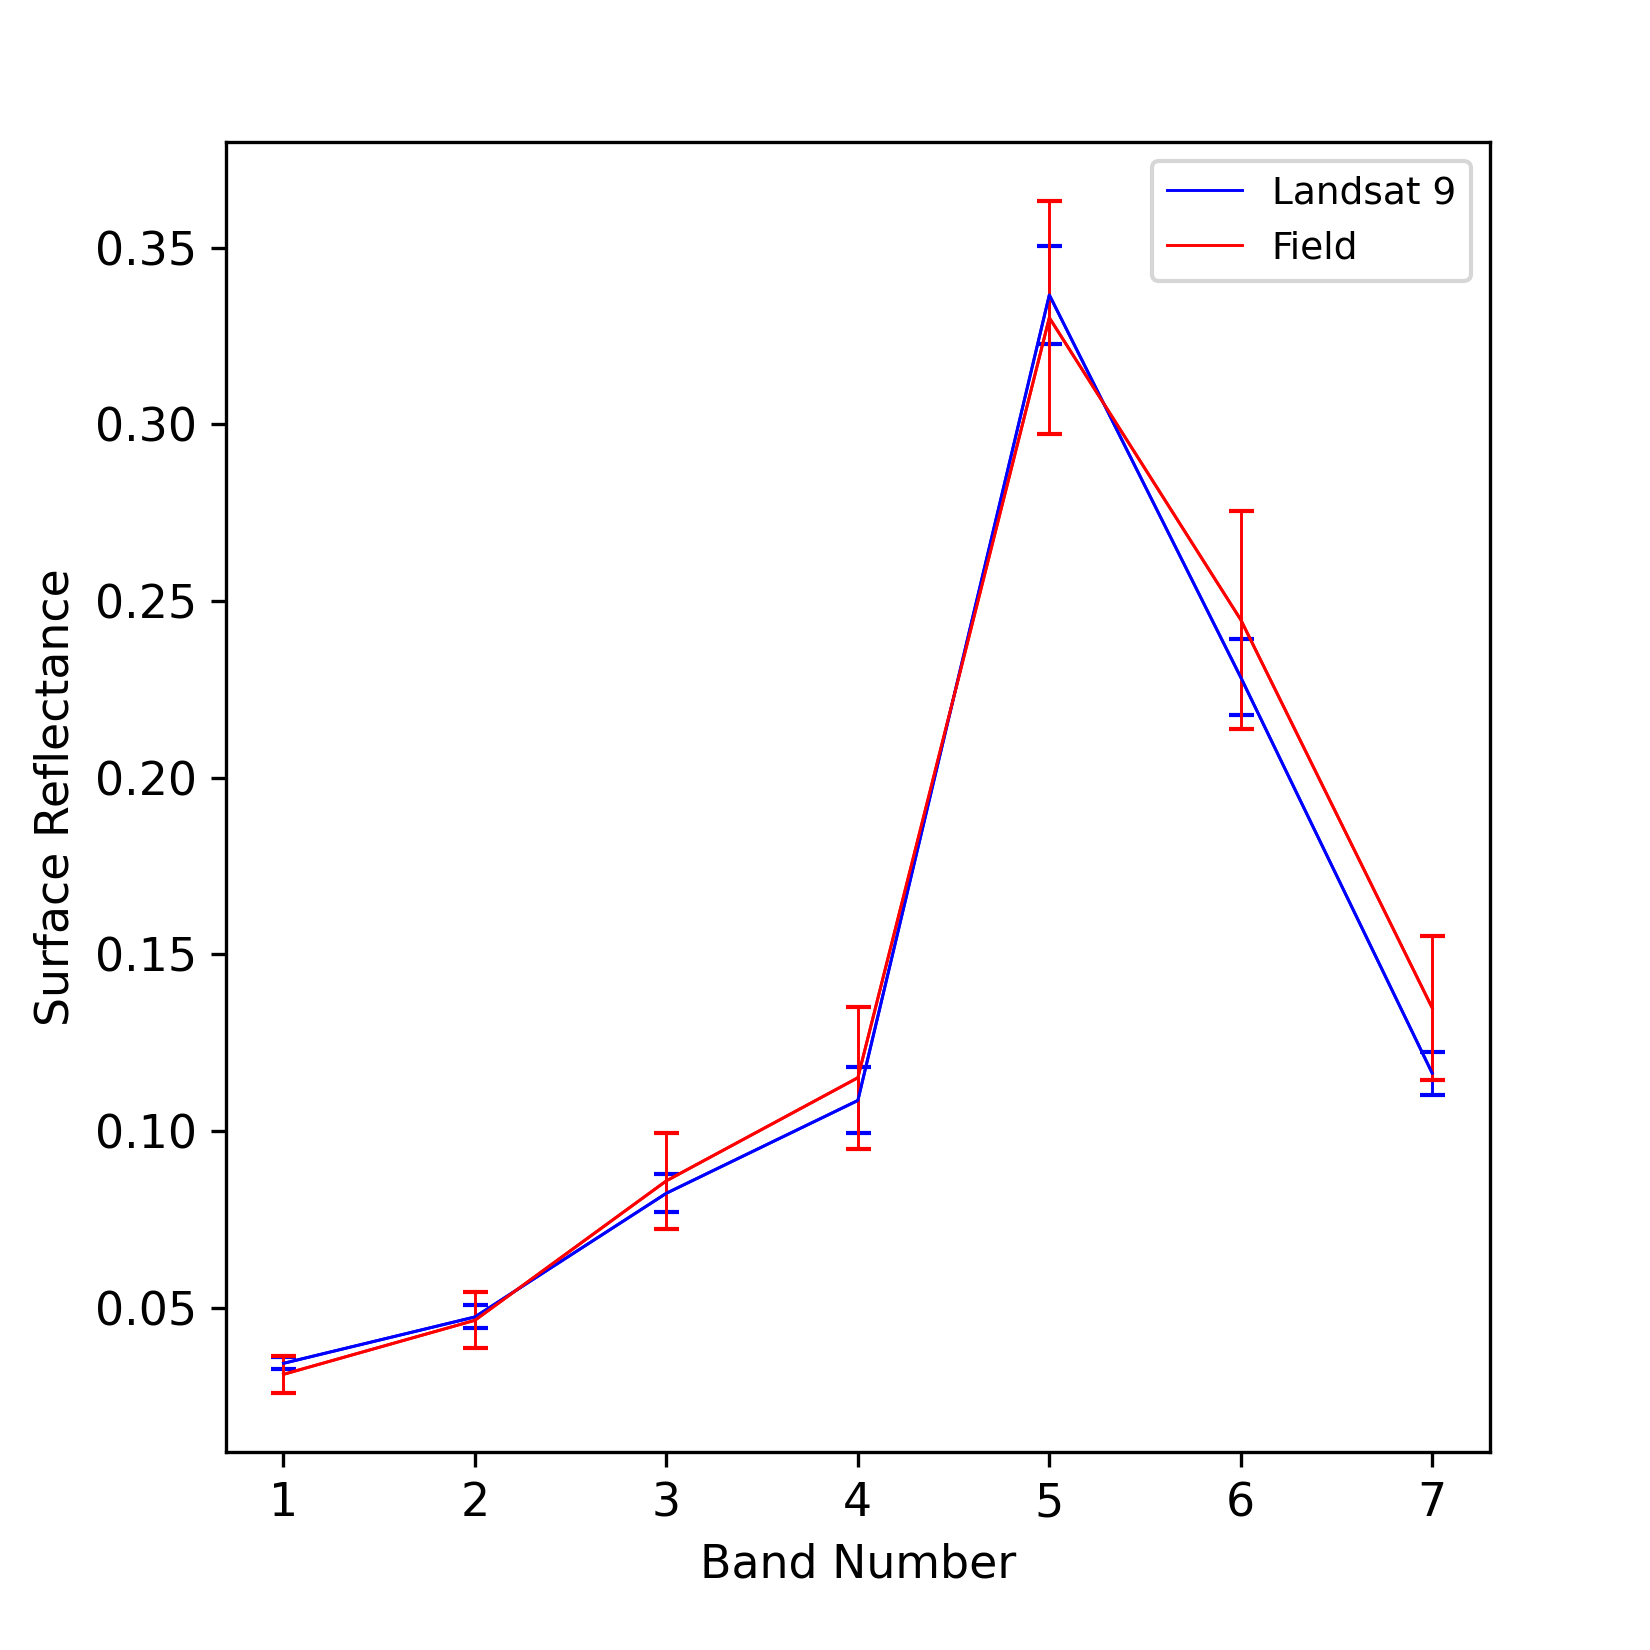
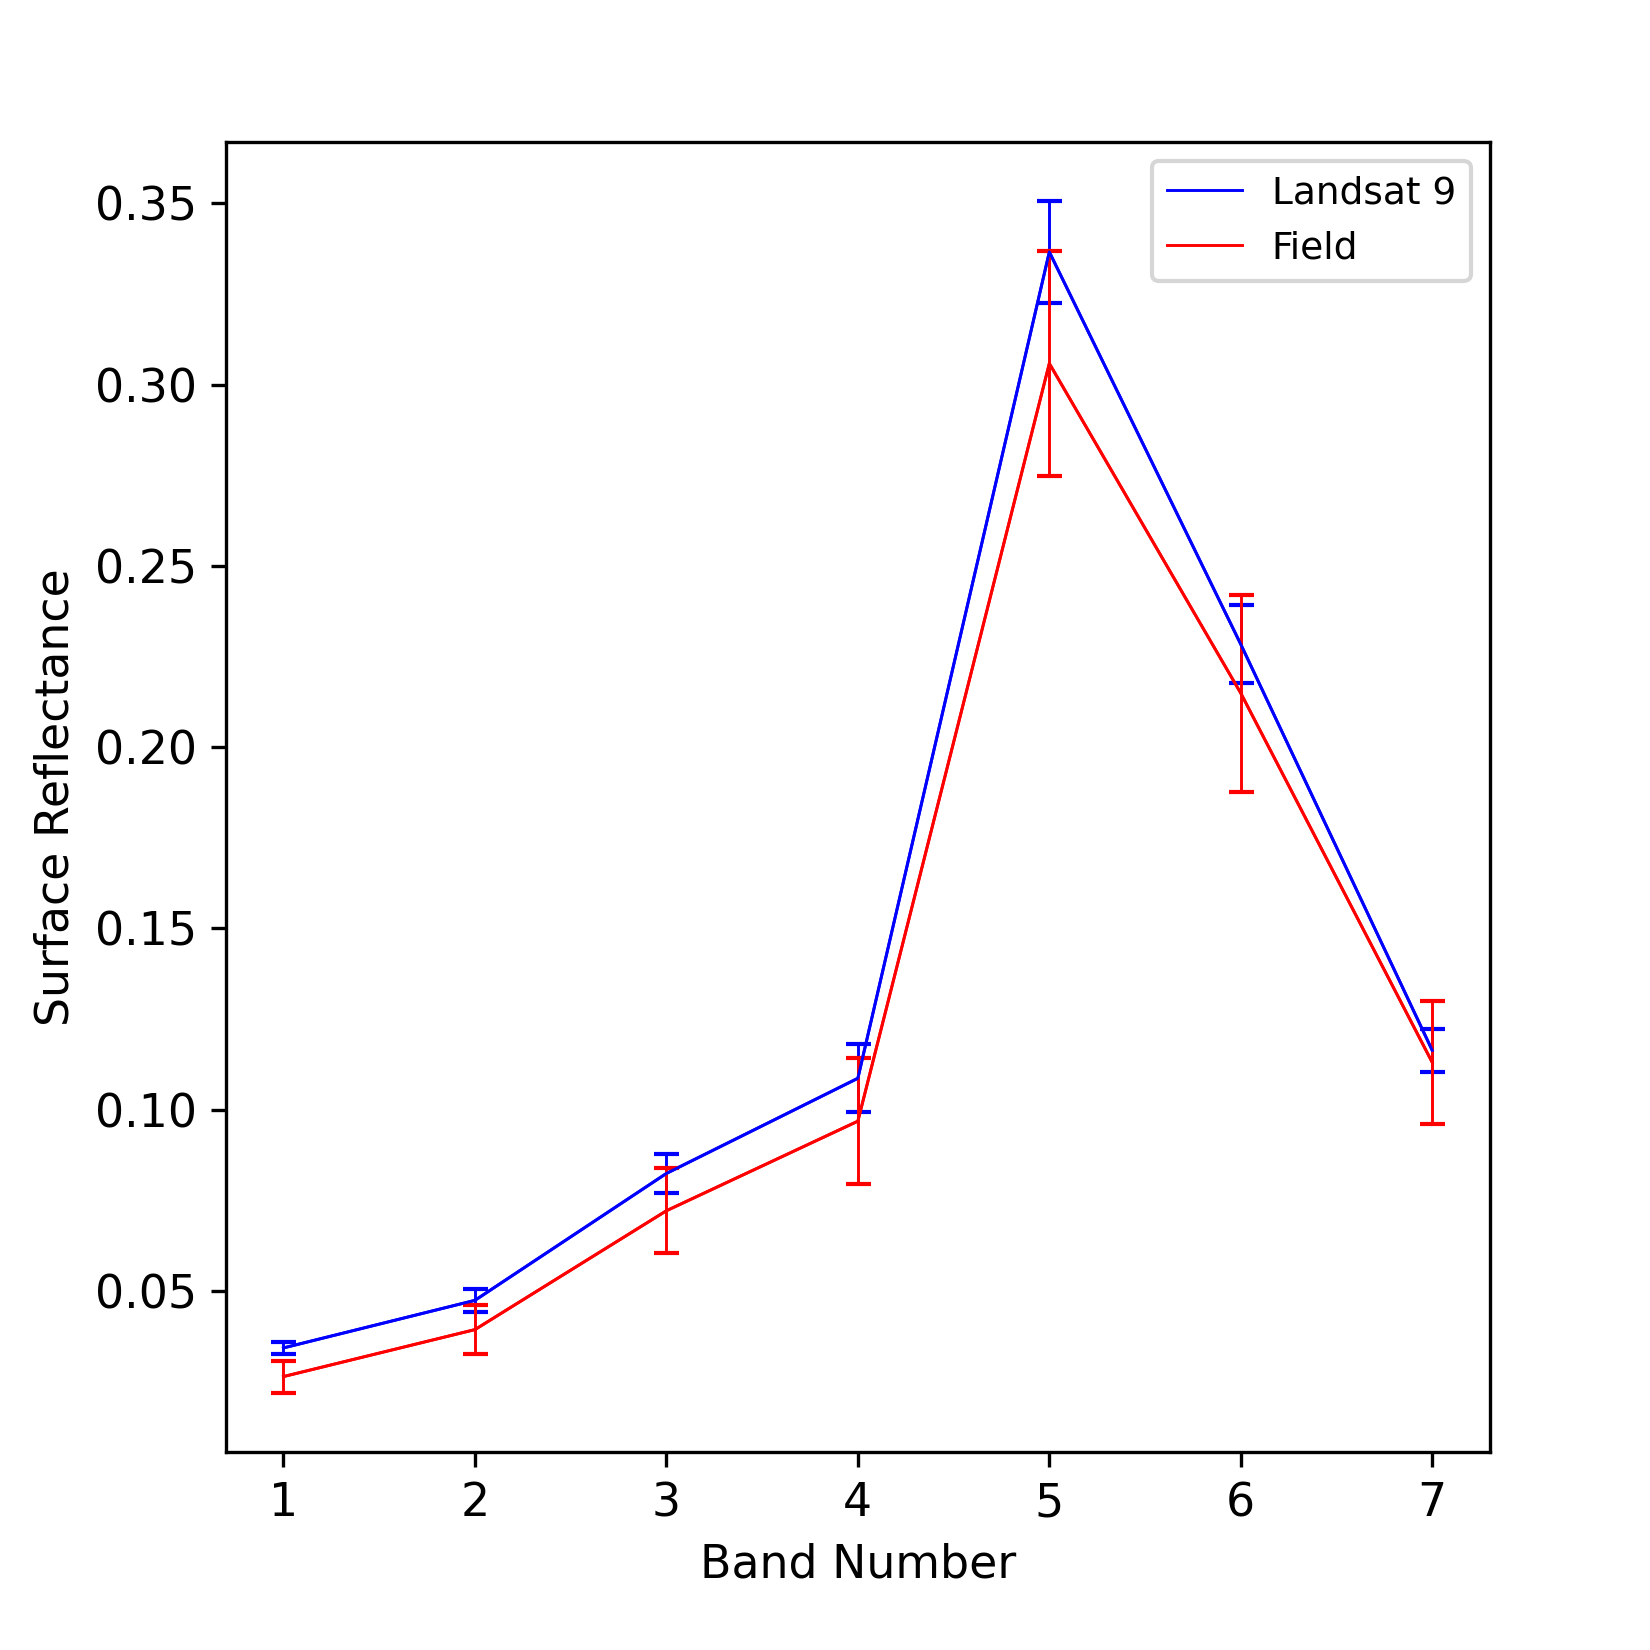
update MUL-17JAN23

diff --git a/docs/validation/site-report/2023-01-17-MUL/index.md b/docs/validation/site-report/2023-01-17-MUL/index.md
@@ -2,9 +2,9 @@
 
 This is a report of the field data collected on 17 January 2023 at the location of Mullion
 to validate the satellite data of the Landsat 9 overpass.
-The full collection of data is contained in the 
-[National Spectral Database](https://www.ga.gov.au/scientific-topics/dea/dea-data-and-products/national-spectral-database).
-Satellite data can be found on [DEA maps](https://maps.dea.ga.gov.au/#share=s-i2o7JwB5gvXOQefhMmTLJaA14b0).
+The full collection of data is contained in the [National Spectral Database](https://www.ga.gov.au/scientific-topics/dea/dea-data-and-products/national-spectral-database).
+Satellite data can be found on [DEA maps](https://maps.dea.ga.gov.au/). An explanation of how to read these reports can be found on the
+[Daily Validation Summary Reports](https://knowledge.dea.ga.gov.au/guides/setup/validation/daily-summary-reports/) page.
 
 :::{contents} In this report
 :local:
@@ -26,7 +26,7 @@ These variables and environmental factors were present on the day the data were 
 "Matchup quality","Good"
 :::
 
-## Results
+## Surface Reflectance Results
 
 The surface reflectance statistics collected on this day are grouped into bands.
 This allows the data to be used to validate Geoscience Australia's other datasets that use the same standardised bands.
@@ -41,18 +41,18 @@ This allows the data to be used to validate Geoscience Australia's other dataset
 :class: validation-report-results-table
 
 "Band","Sat Mean","Sat rms","Field mean","Field rms"
-"CA","0.034","0.002","0.027","0.004"
-"blue","0.048","0.003","0.04","0.007"
-"green","0.084","0.005","0.074","0.012"
-"red","0.111","0.009","0.099","0.018"
-"NIR","0.337","0.014","0.307","0.031"
-"SWIR1","0.228","0.01","0.215","0.027"
+"CA","0.034","0.002","0.026","0.004"
+"blue","0.047","0.003","0.039","0.007"
+"green","0.082","0.005","0.072","0.012"
+"red","0.109","0.009","0.097","0.017"
+"NIR","0.337","0.014","0.306","0.031"
+"SWIR1","0.228","0.011","0.215","0.027"
 "SWIR2","0.116","0.006","0.113","0.017"
 :::
 
 ## Figures
 
-The following figures provide visual representations of the data. (Click a figure to view it at full size.)
+The following figures provide visual representations of the surface reflectance data. (Click a figure to view it at full size.)
 
 :::::{grid} 1 1 2 3
 ::::{grid-item}
@@ -87,6 +87,46 @@ The line of best fit is not shown, but its parameters are given in the bottom-ri
 ::::
 :::::
 
-% :::{tags} validation, site_validation, mullion_validation, landsat_8_validation
+## Fractional Cover
+
+A more detailed description of these results can be found at
+[Daily Validation Summary Reports](https://knowledge.dea.ga.gov.au/guides/setup/validation/daily-summary-reports/).
+
+[DEA Fractional Cover (FC)](https://www.ga.gov.au/scientific-topics/dea/dea-data-and-products/dea-fractional-cover)
+is a derivative product, based on measured surface reflectance. Here, we apply
+the same processing to the field measurements to compare the satellite- and
+field-derived FC values. Please note, this is not validation of DEA Fractional Cover,
+but rather quantifying the differences between field and satellite measurements an
+their impact on derivative products. There is currently no FC product based on Sentinel
+measurements, so we only validate Landsat-derived FC.
+The following figures provide a comparison of FC
+derived from Landsat and field data, where available. (Click a figure to view it at full size.)
+
+:::::{grid} 1 1 2 2
+::::{grid-item}
+:::{figure} ./FCStats-2023-01-17-MUL.png
+Rows show results for Bare Soil (BS), Non-Photosynthetic Vegetation (NPV), Photosynthetic
+Vegetation (PV) and Unmixing Error (UE), respectively. The left column shows the range of FC
+values, on a pixel-by-pixel basis, using the satellite data. The middle panels show the 
+difference between satellite- and field-derived FC values. The right panels show a histogram
+of differences, together with summary statistics for the field site.
+
+:::
+::::
+::::{grid-item}
+:::{figure} ./FC-2023-01-17-MUL.png
+
+The four panels show FC values for today (blue) and previous (black) field site measurements.
+The solid line represents that one-to-one equality between field and satellite measurements.
+Error bars are shown with today's data, which represent the variation in the pixel values over
+the field site.
+
+:::
+::::
+:::::
+    
+
+
+% :::{tags} validation, site_validation, landsat_8_validation, sentinel_2_validation
 % :::
     
